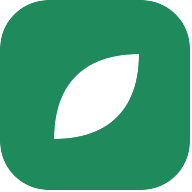
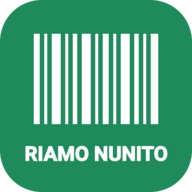
Menu favoris/historique, email, icone, alternatives et magasins

diff --git a/app.js b/app.js
@@ -1,47 +1,71 @@
 (function(){
 "use strict";
 var API="https://world.openfoodfacts.org",LANGS=["fr","en","ar","es"],lang="",nearby=[],current=null,stream=null,timer=null,scanning=false;
+var OVP=["https://overpass-api.de/api/interpreter","https://overpass.kumi.systems/api/interpreter","https://overpass.private.coffee/api/interpreter"];
+var FIELDS="code,product_name,brands,image_front_small_url,nutriscore_grade,nutrition_grades,nova_group,stores";
 function $(id){return document.getElementById(id)}
+function load(k){try{return JSON.parse(localStorage.getItem(k)||"[]")}catch(e){return[]}}
+function save(k,v){try{localStorage.setItem(k,JSON.stringify(v))}catch(e){}}
 try{lang=localStorage.getItem("lang")||""}catch(e){}
 if(LANGS.indexOf(lang)<0){lang=(navigator.language||"fr").slice(0,2);if(LANGS.indexOf(lang)<0)lang="fr"}
 function t(k){return(I18N[lang]&&I18N[lang][k])||I18N.fr[k]||k}
 function el(tag,cls,txt){var e=document.createElement(tag);if(cls)e.className=cls;if(txt!=null)e.textContent=txt;return e}
 function msg(s,err){var m=$("msg");m.textContent=s||"";m.className="msg"+(err?" err":"")}
-function getJSON(u){return fetch(u).then(function(r){if(!r.ok)throw new Error(r.status);return r.json()})}
+function getJSON(u,ms){
+var ac=window.AbortController?new AbortController():null,tm=ac?setTimeout(function(){ac.abort()},ms||20000):0;
+return fetch(u,ac?{signal:ac.signal}:{}).then(function(r){clearTimeout(tm);if(!r.ok){var e=new Error("HTTP "+r.status);e.status=r.status;throw e}return r.json()},function(e){clearTimeout(tm);throw e})}
+function errText(e){if(e&&e.name==="AbortError")return t("neterr")+" (timeout)";if(e&&[403,429,503,504].indexOf(e.status)>-1)return t("busy");return t("neterr")+" ("+((e&&e.message)||"?")+")"}
 function pname(p){return p["product_name_"+lang]||p.product_name||""}
 function grade(p){var g=String(p.nutriscore_grade||p.nutrition_grades||"").toLowerCase();return/^[a-e]$/.test(g)?g:""}
 function rank(g){return g?"abcde".indexOf(g):-1}
 function tags(arr){return(arr||[]).map(function(a){var k=a.replace(/^.*:/,""),i=ALK.indexOf(k),al=(I18N[lang]||I18N.fr).al;return i>=0&&al[i]?al[i]:k.replace(/-/g," ")}).join(", ")}
 function isNear(s){var a=String(s).toLowerCase().split(",");return nearby.some(function(n){return n.length>2&&a.some(function(x){x=x.trim();return x.length>2&&(n.indexOf(x)>-1||x.indexOf(n)>-1)})})}
-function item(p){
+function norm(p){return{code:p.code,name:pname(p)||p.code,brands:p.brands||"",img:p.image_front_small_url||"",g:grade(p),stores:p.stores||""}}
+function isFav(c){return load("fav").some(function(x){return x.code===c})}
+function toggleFav(o){var L=load("fav"),i=-1;L.forEach(function(x,j){if(x.code===o.code)i=j});if(i>-1)L.splice(i,1);else L.unshift(o);save("fav",L);return i<0}
+function addHist(o){var L=load("hist").filter(function(x){return x.code!==o.code});L.unshift(o);save("hist",L.slice(0,40))}
+function item(o){
 var li=el("li"),bx=el("div","alt-item"),tx=el("div");
-if(p.image_front_small_url){var im=el("img");im.src=p.image_front_small_url;im.alt="";bx.appendChild(im)}
-tx.appendChild(el("div","",pname(p)||p.code));
-if(p.brands)tx.appendChild(el("small","",p.brands));
-if(p.stores){tx.appendChild(el("div","small",t("sold")+" : "+p.stores));if(isNear(p.stores))tx.appendChild(el("span","tag",t("near")))}
+if(o.img){var im=el("img");im.src=o.img;im.alt="";bx.appendChild(im)}
+tx.appendChild(el("div","",o.name||o.code));
+if(o.brands)tx.appendChild(el("small","",o.brands));
+if(o.stores){tx.appendChild(el("div","small",t("sold")+" : "+o.stores));if(isNear(o.stores))tx.appendChild(el("span","tag",t("near")))}
 bx.appendChild(tx);li.appendChild(bx);
-var g=grade(p);if(g)li.appendChild(el("span","badge ns-"+g,g.toUpperCase()));
-bx.onclick=function(){loadCode(p.code);window.scrollTo(0,0)};
+if(o.g)li.appendChild(el("span","badge ns-"+o.g,o.g.toUpperCase()));
+bx.onclick=function(){loadCode(o.code)};
 return li}
+function setView(v){
+["scan","hist","fav"].forEach(function(n){$("v-"+n).hidden=n!==v;$("tab-"+n).className=n===v?"on":""});
+if(v==="hist")renderList("hist","histList");
+if(v==="fav")renderList("fav","favList")}
+function renderList(key,id){var ul=$(id),L=load(key);ul.textContent="";if(!L.length){ul.appendChild(el("li","",t("empty")));return}L.forEach(function(o){ul.appendChild(item(o))})}
 function loadCode(code){
-stopScan();msg(t("loading"));$("results").hidden=true;
-getJSON(API+"/api/v2/product/"+encodeURIComponent(code)+".json?fields=code,product_name,product_name_"+lang+",brands,image_front_small_url,nutriscore_grade,nutrition_grades,nova_group,nutriments,ingredients_text,ingredients_text_"+lang+",allergens_tags,traces_tags,additives_tags,categories_tags,stores")
-.then(function(d){if(d.status!==1||!d.product){msg(t("notfound"),true);$("product").hidden=true;return}msg("");current=d.product;showProduct(current)})
-.catch(function(){msg(t("neterr"),true)})}
+stopScan();setView("scan");msg(t("loading"));$("results").hidden=true;
+getJSON(API+"/api/v2/product/"+encodeURIComponent(code)+".json?fields="+FIELDS+",product_name_"+lang+",nutriments,ingredients_text,ingredients_text_"+lang+",allergens_tags,traces_tags,additives_tags,categories_tags")
+.then(function(d){
+if(d.status!==1||!d.product){msg(t("notfound"),true);$("product").hidden=true;return}
+msg("");current=d.product;current.code=current.code||d.code||code;
+addHist(norm(current));showProduct(current);window.scrollTo(0,0)})
+.catch(function(e){msg(errText(e),true)})}
 function searchName(q){
 msg(t("loading"));$("product").hidden=true;
-getJSON(API+"/cgi/search.pl?search_simple=1&action=process&json=1&page_size=12&fields=code,product_name,product_name_"+lang+",brands,image_front_small_url,nutriscore_grade,nutrition_grades&search_terms="+encodeURIComponent(q))
+getJSON(API+"/cgi/search.pl?search_simple=1&action=process&json=1&page_size=12&fields="+FIELDS+",product_name_"+lang+"&search_terms="+encodeURIComponent(q))
 .then(function(d){msg("");var bx=$("results"),ul=el("ul","list"),L=(d.products||[]).filter(function(p){return p.code});
 bx.textContent="";bx.hidden=false;bx.appendChild(el("h2","",t("results")));
 if(!L.length)ul.appendChild(el("li","",t("notfound")));
-L.forEach(function(p){ul.appendChild(item(p))});bx.appendChild(ul)})
-.catch(function(){msg(t("neterr"),true)})}
+L.forEach(function(p){ul.appendChild(item(norm(p)))});bx.appendChild(ul)})
+.catch(function(e){msg(errText(e),true)})}
 function showProduct(p){
-var box=$("product"),c=el("section","card"),head=el("div","head");
+var box=$("product"),c=el("section","card"),head=el("div","head"),o=norm(p);
 box.hidden=false;box.textContent="";
-if(p.image_front_small_url){var im=el("img");im.src=p.image_front_small_url;im.alt="";head.appendChild(im)}
-var h=el("div");h.appendChild(el("h1","",pname(p)||p.code));h.appendChild(el("div","small",p.brands||""));head.appendChild(h);c.appendChild(head);
-var g=grade(p),nv=parseInt(p.nova_group,10)||0,adds=(p.additives_tags||[]).length,bd=el("div","badges");
+if(o.img){var im=el("img");im.src=o.img;im.alt="";head.appendChild(im)}
+var h=el("div");h.appendChild(el("h1","",o.name));h.appendChild(el("div","small",o.brands));head.appendChild(h);
+var fb=el("button","star",isFav(o.code)?"★":"☆");
+fb.onclick=function(){fb.textContent=toggleFav(o)?"★":"☆"};
+head.appendChild(fb);c.appendChild(head);
+var g=o.g,nv=parseInt(p.nova_group,10)||0,adds=(p.additives_tags||[]).length,sc=el("div","scale"),bd=el("div","badges");
+"abcde".split("").forEach(function(l){sc.appendChild(el("span","sc ns-"+l+(l===g?" on":""),l.toUpperCase()))});
+c.appendChild(sc);
 bd.appendChild(el("span","badge"+(g?" ns-"+g:""),t("nutri")+" "+(g?g.toUpperCase():"?")));
 bd.appendChild(el("span","badge",t("nova")+" "+(nv||"?")));c.appendChild(bd);
 var bad=g==="d"||g==="e"||nv===4||adds>=5,good=(g==="a"||g==="b")&&nv<4&&adds<5;
@@ -55,33 +79,44 @@ line("ingredients",p["ingredients_text_"+lang]||p.ingredients_text||"–");
 line("allergens",tags(p.allergens_tags)||t("none"));
 line("traces",tags(p.traces_tags)||t("none"));
 line("additives",(p.additives_tags||[]).map(function(a){return a.replace(/^.*:/,"").toUpperCase()}).join(", ")||t("none"));
-if(p.stores)line("sold",p.stores);
+c.appendChild(el("h2","",t("whereBuy")));
+var st=(p.stores||"").split(",").map(function(s){return s.trim()}).filter(Boolean).slice(0,8);
+if(!st.length)c.appendChild(el("p","small",t("noStore")));
+else{var w=el("div","chips");st.forEach(function(s){var a=el("a","chip",s+(isNear(s)?" "+t("nearYou"):""));a.href="https://www.google.com/maps/search/?api=1&query="+encodeURIComponent(s);a.target="_blank";a.rel="noopener noreferrer";w.appendChild(a)});c.appendChild(w)}
 box.appendChild(c);
-var ac=el("section","card"),ul=el("ul","list");ac.appendChild(el("h2","",t("altTitle")));ac.appendChild(ul);box.appendChild(ac);
-loadAlts(p,ul)}
-function loadAlts(p,ul){
-var cats=p.categories_tags||[],cat=cats[cats.length-1];
-if(!cat){ul.appendChild(el("li","",t("altNone")));return}
-ul.appendChild(el("li","",t("loading")));
-getJSON(API+"/api/v2/search?categories_tags="+encodeURIComponent(cat)+"&sort_by=unique_scans_n&page_size=40&fields=code,product_name,product_name_"+lang+",brands,image_front_small_url,nutriscore_grade,nutrition_grades,nova_group,stores")
-.then(function(d){var cur=rank(grade(p)),lim=cur<0?2:cur;
-var L=(d.products||[]).filter(function(x){return x.code!==p.code&&grade(x)&&rank(grade(x))<lim});
+var ac=el("section","card"),ul=el("ul","list"),bt=el("button","btn alt",t("showAlt")),cats=p.categories_tags||[],cat=cats[cats.length-1];
+ac.appendChild(el("h2","",t("altTitle")));ac.appendChild(bt);ac.appendChild(ul);box.appendChild(ac);
+bt.onclick=function(){loadAlts(p,ul,bt)};
+if(cat){var cc=load("alt:"+cat+":"+altLim(p));if(cc.length){bt.hidden=true;showAlts(ul,cc)}}}
+function altLim(p){var c=rank(grade(p));return c<0?2:c}
+function showAlts(ul,L){ul.textContent="";if(!L.length){ul.appendChild(el("li","",t("altNone")));return}L.forEach(function(o){ul.appendChild(item(o))})}
+function loadAlts(p,ul,bt){
+var cats=p.categories_tags||[],cat=cats[cats.length-1],lim=altLim(p);
+if(!cat||lim===0){bt.hidden=true;showAlts(ul,[]);return}
+var key="alt:"+cat+":"+lim,cc=load(key);
+if(cc.length){bt.hidden=true;showAlts(ul,cc);return}
+bt.disabled=true;ul.textContent="";ul.appendChild(el("li","",t("loading")));
+getJSON(API+"/api/v2/search?categories_tags="+encodeURIComponent(cat)+"&sort_by=unique_scans_n&page_size=30&fields="+FIELDS+",product_name_"+lang,25000)
+.then(function(d){
+var L=(d.products||[]).filter(function(x){return x.code&&x.code!==p.code&&grade(x)&&rank(grade(x))<lim});
 L.sort(function(a,b){return rank(grade(a))-rank(grade(b))||(parseInt(a.nova_group,10)||9)-(parseInt(b.nova_group,10)||9)});
-ul.textContent="";
-if(!L.length){ul.appendChild(el("li","",t("altNone")));return}
-L.slice(0,8).forEach(function(x){ul.appendChild(item(x))})})
-.catch(function(){ul.textContent="";ul.appendChild(el("li","",t("neterr")))})}
+var R=L.slice(0,8).map(norm);
+if(R.length)save(key,R);
+bt.disabled=false;showAlts(ul,R)})
+.catch(function(e){bt.disabled=false;bt.textContent=t("retry");ul.textContent="";ul.appendChild(el("li","err",errText(e)))})}
 function dist(a,b,c,d){var R=6371,r=Math.PI/180,x=(c-a)*r,y=(d-b)*r,h=Math.sin(x/2)*Math.sin(x/2)+Math.cos(a*r)*Math.cos(c*r)*Math.sin(y/2)*Math.sin(y/2);return 2*R*Math.asin(Math.sqrt(h))}
+function overpass(q,i){
+return fetch(OVP[i],{method:"POST",headers:{"Content-Type":"application/x-www-form-urlencoded"},body:"data="+encodeURIComponent(q)})
+.then(function(r){if(!r.ok){var e=new Error("HTTP "+r.status);e.status=r.status;throw e}return r.json()})
+.catch(function(e){if(i+1<OVP.length)return overpass(q,i+1);throw e})}
 function locate(){
 var ul=$("stores");ul.textContent="";
 if(!navigator.geolocation){ul.appendChild(el("li","",t("locDenied")));return}
 ul.appendChild(el("li","",t("locating")));
 navigator.geolocation.getCurrentPosition(function(pos){
 var la=pos.coords.latitude,lo=pos.coords.longitude;
-var q='[out:json][timeout:20];(node["shop"="supermarket"](around:3000,'+la+','+lo+');way["shop"="supermarket"](around:3000,'+la+','+lo+'););out center 25;';
-fetch("https://overpass-api.de/api/interpreter",{method:"POST",headers:{"Content-Type":"application/x-www-form-urlencoded"},body:"data="+encodeURIComponent(q)})
-.then(function(r){if(!r.ok)throw new Error(r.status);return r.json()})
-.then(function(d){
+var q='[out:json][timeout:25];(node["shop"="supermarket"](around:3000,'+la+','+lo+');way["shop"="supermarket"](around:3000,'+la+','+lo+'););out center 25;';
+overpass(q,0).then(function(d){
 var arr=(d.elements||[]).map(function(e){var y=e.lat!=null?e.lat:(e.center&&e.center.lat),x=e.lon!=null?e.lon:(e.center&&e.center.lon);return{name:(e.tags&&(e.tags.name||e.tags.brand))||"Supermarket",lat:y,lon:x,d:dist(la,lo,y,x)}}).filter(function(s){return s.lat!=null&&s.lon!=null}).sort(function(a,b){return a.d-b.d}).slice(0,12);
 nearby=arr.map(function(s){return s.name.toLowerCase()});
 ul.textContent="";
@@ -90,8 +125,9 @@ arr.forEach(function(s){var li=el("li"),tx=el("div"),a=el("a","",t("route"));
 tx.appendChild(el("div","",s.name));tx.appendChild(el("small","",s.d.toFixed(1)+" km"));li.appendChild(tx);
 a.href="https://www.google.com/maps/dir/?api=1&destination="+s.lat+","+s.lon;a.target="_blank";a.rel="noopener noreferrer";li.appendChild(a);ul.appendChild(li)});
 if(current)showProduct(current)})
-.catch(function(){ul.textContent="";ul.appendChild(el("li","",t("neterr")))})
-},function(){ul.textContent="";ul.appendChild(el("li","",t("locDenied")))},{enableHighAccuracy:true,timeout:15000})}
+.catch(function(e){ul.textContent="";var li=el("li","err",errText(e)+" "),a=el("a","",t("openMaps"));
+a.href="https://www.google.com/maps/search/supermarket/@"+la+","+lo+",14z";a.target="_blank";a.rel="noopener noreferrer";li.appendChild(a);ul.appendChild(li)})
+},function(){ul.textContent="";ul.appendChild(el("li","",t("locDenied")))},{enableHighAccuracy:false,timeout:20000,maximumAge:60000})}
 function stopScan(){scanning=false;clearInterval(timer);if(stream){stream.getTracks().forEach(function(tr){tr.stop()});stream=null}var v=$("cam");v.hidden=true;v.srcObject=null;$("scan").textContent=t("scan")}
 function startScan(){
 if(scanning){stopScan();return}
@@ -114,6 +150,10 @@ $("go").onclick=go;
 $("q").addEventListener("keydown",function(e){if(e.key==="Enter")go()});
 $("scan").onclick=startScan;
 $("loc").onclick=locate;
+$("tab-scan").onclick=function(){setView("scan");window.scrollTo(0,0)};
+$("tab-hist").onclick=function(){setView("hist");window.scrollTo(0,0)};
+$("tab-fav").onclick=function(){setView("fav");window.scrollTo(0,0)};
+$("histClear").onclick=function(){save("hist",[]);renderList("hist","histList")};
 $("lang").onchange=function(){lang=this.value;applyLang();if(current)showProduct(current)};
 applyLang();
 })();

diff --git a/index.html b/index.html
@@ -28,6 +28,7 @@
 </select>
 </header>
 <main>
+<div id="v-scan" class="view">
 <section class="card">
 <h1 data-i18n="title"></h1>
 <div class="row">
@@ -45,9 +46,24 @@
 <button id="loc" class="btn alt" data-i18n="storesBtn"></button>
 <ul id="stores" class="list"></ul>
 </section>
+</div>
+<div id="v-hist" class="view" hidden>
+<section class="card">
+<h2 data-i18n="tabHist"></h2>
+<ul id="histList" class="list"></ul>
+<button id="histClear" class="btn alt" data-i18n="clear"></button>
+</section>
+</div>
+<div id="v-fav" class="view" hidden>
+<section class="card">
+<h2 data-i18n="tabFav"></h2>
+<ul id="favList" class="list"></ul>
+</section>
+</div>
 </main>
 <footer>
 <p><b>Riamo Nunito</b> · riamonunito.pages.dev</p>
+<p><a href="mailto:riamonunito@gmail.com">✉ riamonunito@gmail.com</a></p>
 <nav class="soc">
 <a href="https://www.youtube.com/@Riamonunito" target="_blank" rel="noopener noreferrer">YouTube</a>
 <a href="https://www.instagram.com/riamonunito" target="_blank" rel="noopener noreferrer">Instagram</a>
@@ -57,7 +73,13 @@
 </nav>
 <p class="small" data-i18n="credits"></p>
 </footer>
+<nav class="tabs">
+<button id="tab-scan" class="on"><span>🔍</span><i data-i18n="tabScan"></i></button>
+<button id="tab-hist"><span>🕘</span><i data-i18n="tabHist"></i></button>
+<button id="tab-fav"><span>⭐</span><i data-i18n="tabFav"></i></button>
+</nav>
 <script src="/i18n.js" charset="utf-8"></script>
+<script src="/i18n-extra.js" charset="utf-8"></script>
 <script src="/app.js" charset="utf-8"></script>
 <script src="/pwa.js" charset="utf-8"></script>
 </body>

diff --git a/i18n-extra.js b/i18n-extra.js
@@ -1,0 +1,9 @@
+(function(){
+var X={
+fr:{tabScan:"Scanner",tabHist:"Historique",tabFav:"Favoris",clear:"Vider l’historique",empty:"Rien pour le moment.",showAlt:"Voir les meilleures alternatives",retry:"Réessayer",busy:"Serveur occupé, réessaie dans une minute.",whereBuy:"Où l’acheter",noStore:"Magasins non indiqués pour ce produit.",nearYou:"✔ près de vous",openMaps:"Ouvrir Google Maps"},
+en:{tabScan:"Scan",tabHist:"History",tabFav:"Favorites",clear:"Clear history",empty:"Nothing yet.",showAlt:"Show better alternatives",retry:"Retry",busy:"Server busy, try again in a minute.",whereBuy:"Where to buy",noStore:"No stores listed for this product.",nearYou:"✔ near you",openMaps:"Open Google Maps"},
+ar:{tabScan:"مسح",tabHist:"السجل",tabFav:"المفضلة",clear:"مسح السجل",empty:"لا شيء حاليًا.",showAlt:"عرض أفضل البدائل",retry:"إعادة المحاولة",busy:"الخادم مشغول، حاول بعد دقيقة.",whereBuy:"أين تشتريه",noStore:"لم تُذكر متاجر لهذا المنتج.",nearYou:"✔ قريب منك",openMaps:"فتح خرائط جوجل"},
+es:{tabScan:"Escanear",tabHist:"Historial",tabFav:"Favoritos",clear:"Borrar historial",empty:"Nada por ahora.",showAlt:"Ver mejores alternativas",retry:"Reintentar",busy:"Servidor ocupado, inténtalo en un minuto.",whereBuy:"Dónde comprarlo",noStore:"No se indican tiendas para este producto.",nearYou:"✔ cerca de ti",openMaps:"Abrir Google Maps"}
+};
+for(var k in X){Object.assign(I18N[k],X[k])}
+})();

diff --git a/style.css b/style.css
@@ -45,3 +45,18 @@ footer{text-align:center;padding:18px 14px 28px;color:var(--mu)}
 .soc{display:flex;flex-wrap:wrap;gap:8px;justify-content:center;margin:10px 0}
 .soc a{background:#e3f3ea;color:var(--gd);font-weight:600;text-decoration:none;padding:9px 16px;border-radius:999px}
 .small{font-size:.85rem}
+body{padding-bottom:84px}
+body>button{bottom:84px!important}
+.tabs{position:fixed;left:0;right:0;bottom:0;display:flex;background:#fff;border-top:1px solid var(--bd);z-index:6;padding-bottom:env(safe-area-inset-bottom,0)}
+.tabs button{flex:1;border:0;background:none;padding:8px 4px;color:var(--mu);font:600 .8rem Inter,sans-serif;display:flex;flex-direction:column;align-items:center;gap:2px;cursor:pointer}
+.tabs button span{font-size:1.4rem}
+.tabs i{font-style:normal}
+.tabs button.on{color:var(--g)}
+.star{border:0;background:none;font-size:2rem;color:#e0a800;cursor:pointer;margin-inline-start:auto}
+.scale{display:flex;gap:4px;margin:12px 0;align-items:center}
+.sc{width:32px;height:32px;display:grid;place-items:center;color:#fff;font-weight:700;border-radius:8px;opacity:.35}
+.sc.on{opacity:1;transform:scale(1.25);margin:0 4px}
+.chips{display:flex;flex-wrap:wrap;gap:8px;margin:8px 0}
+.chip{background:#e3f3ea;color:var(--gd);font-weight:600;text-decoration:none;padding:7px 14px;border-radius:999px;font-size:.9rem}
+li.err{color:#c0392b;display:block}
+.btn[disabled]{opacity:.6}
